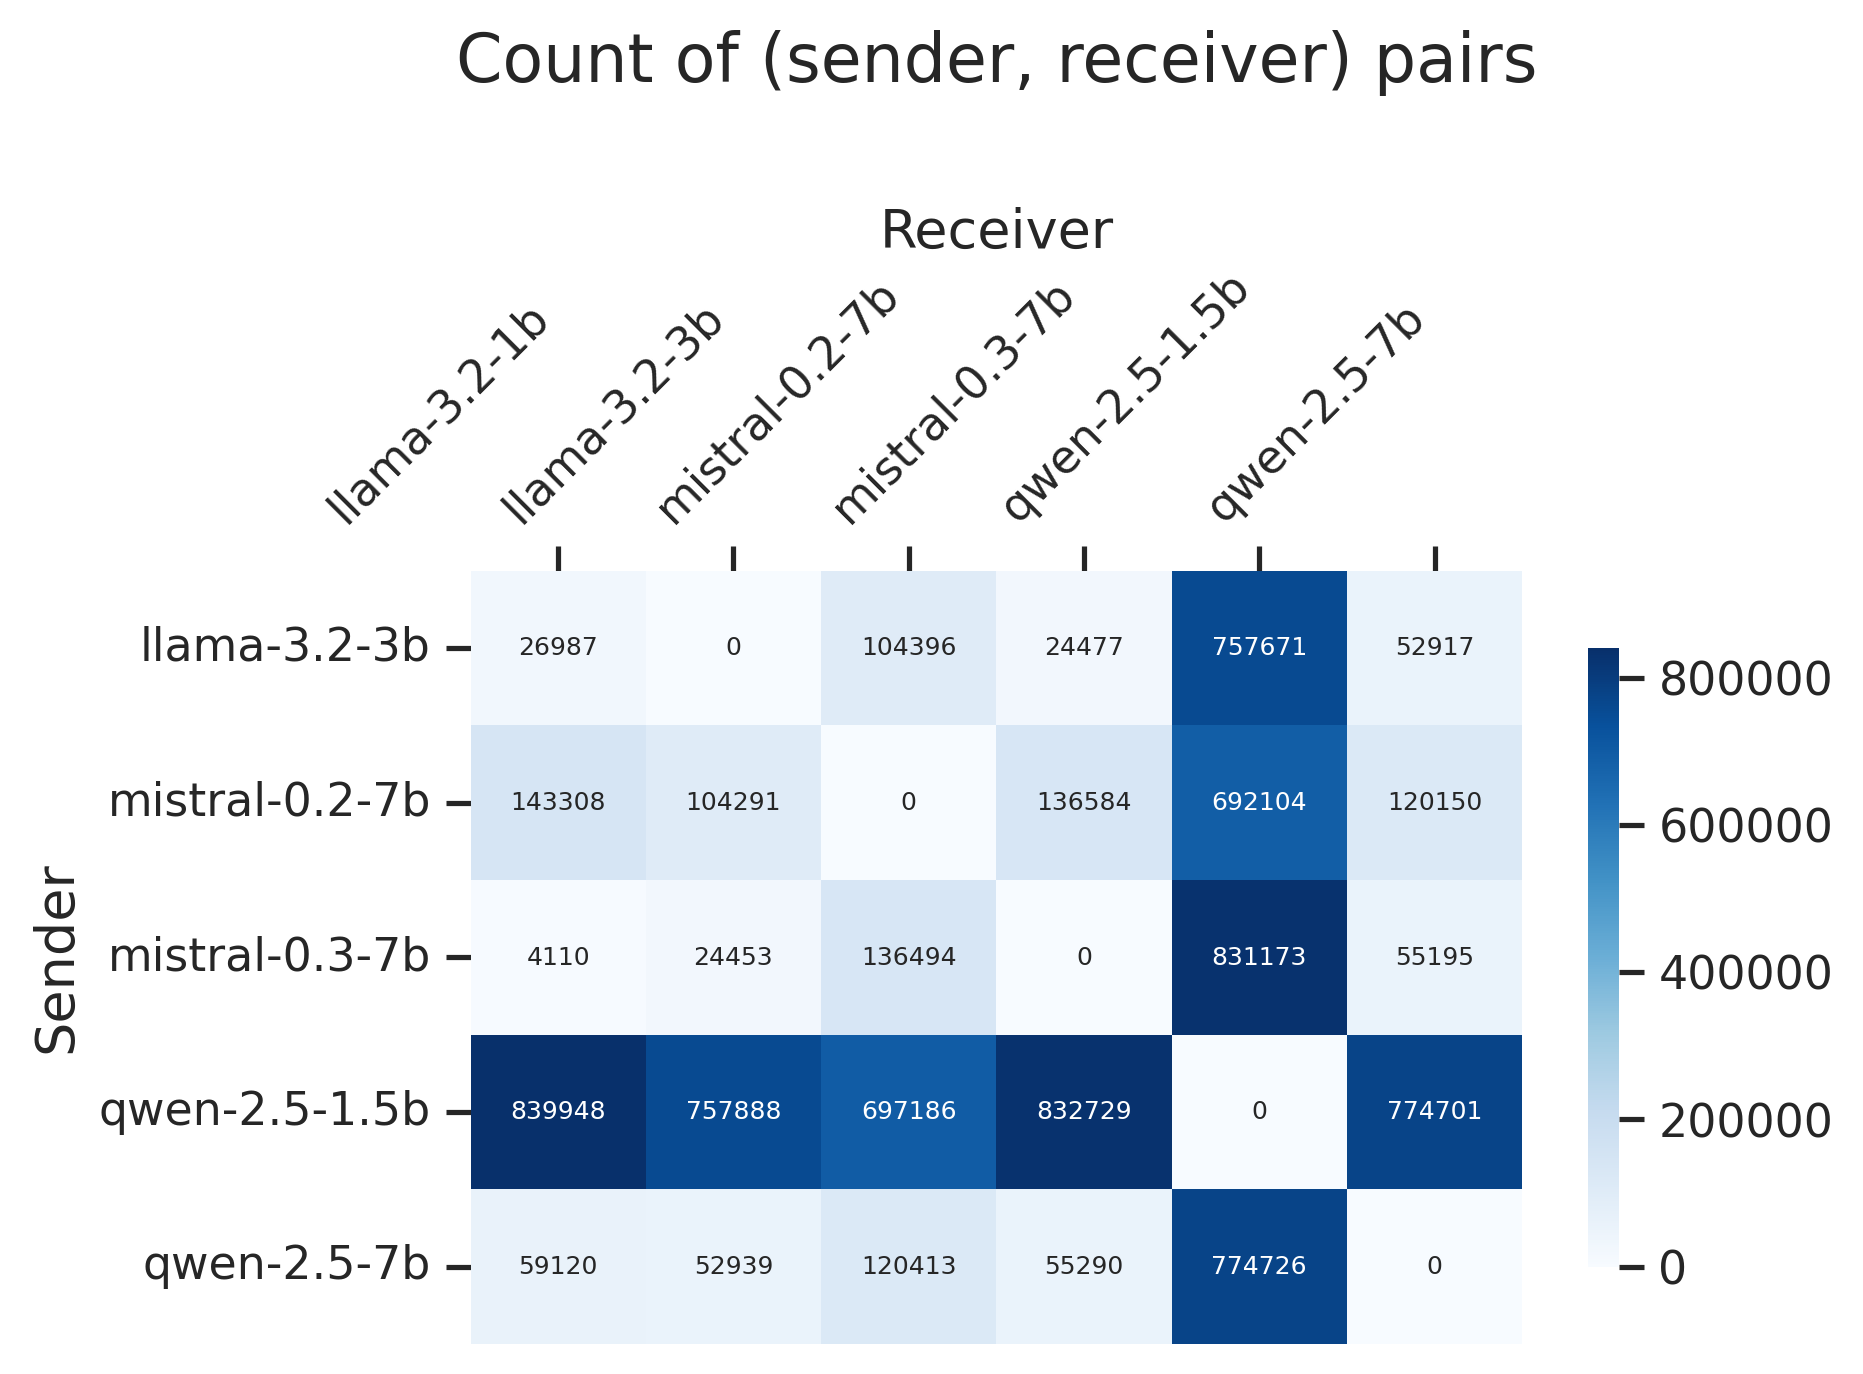
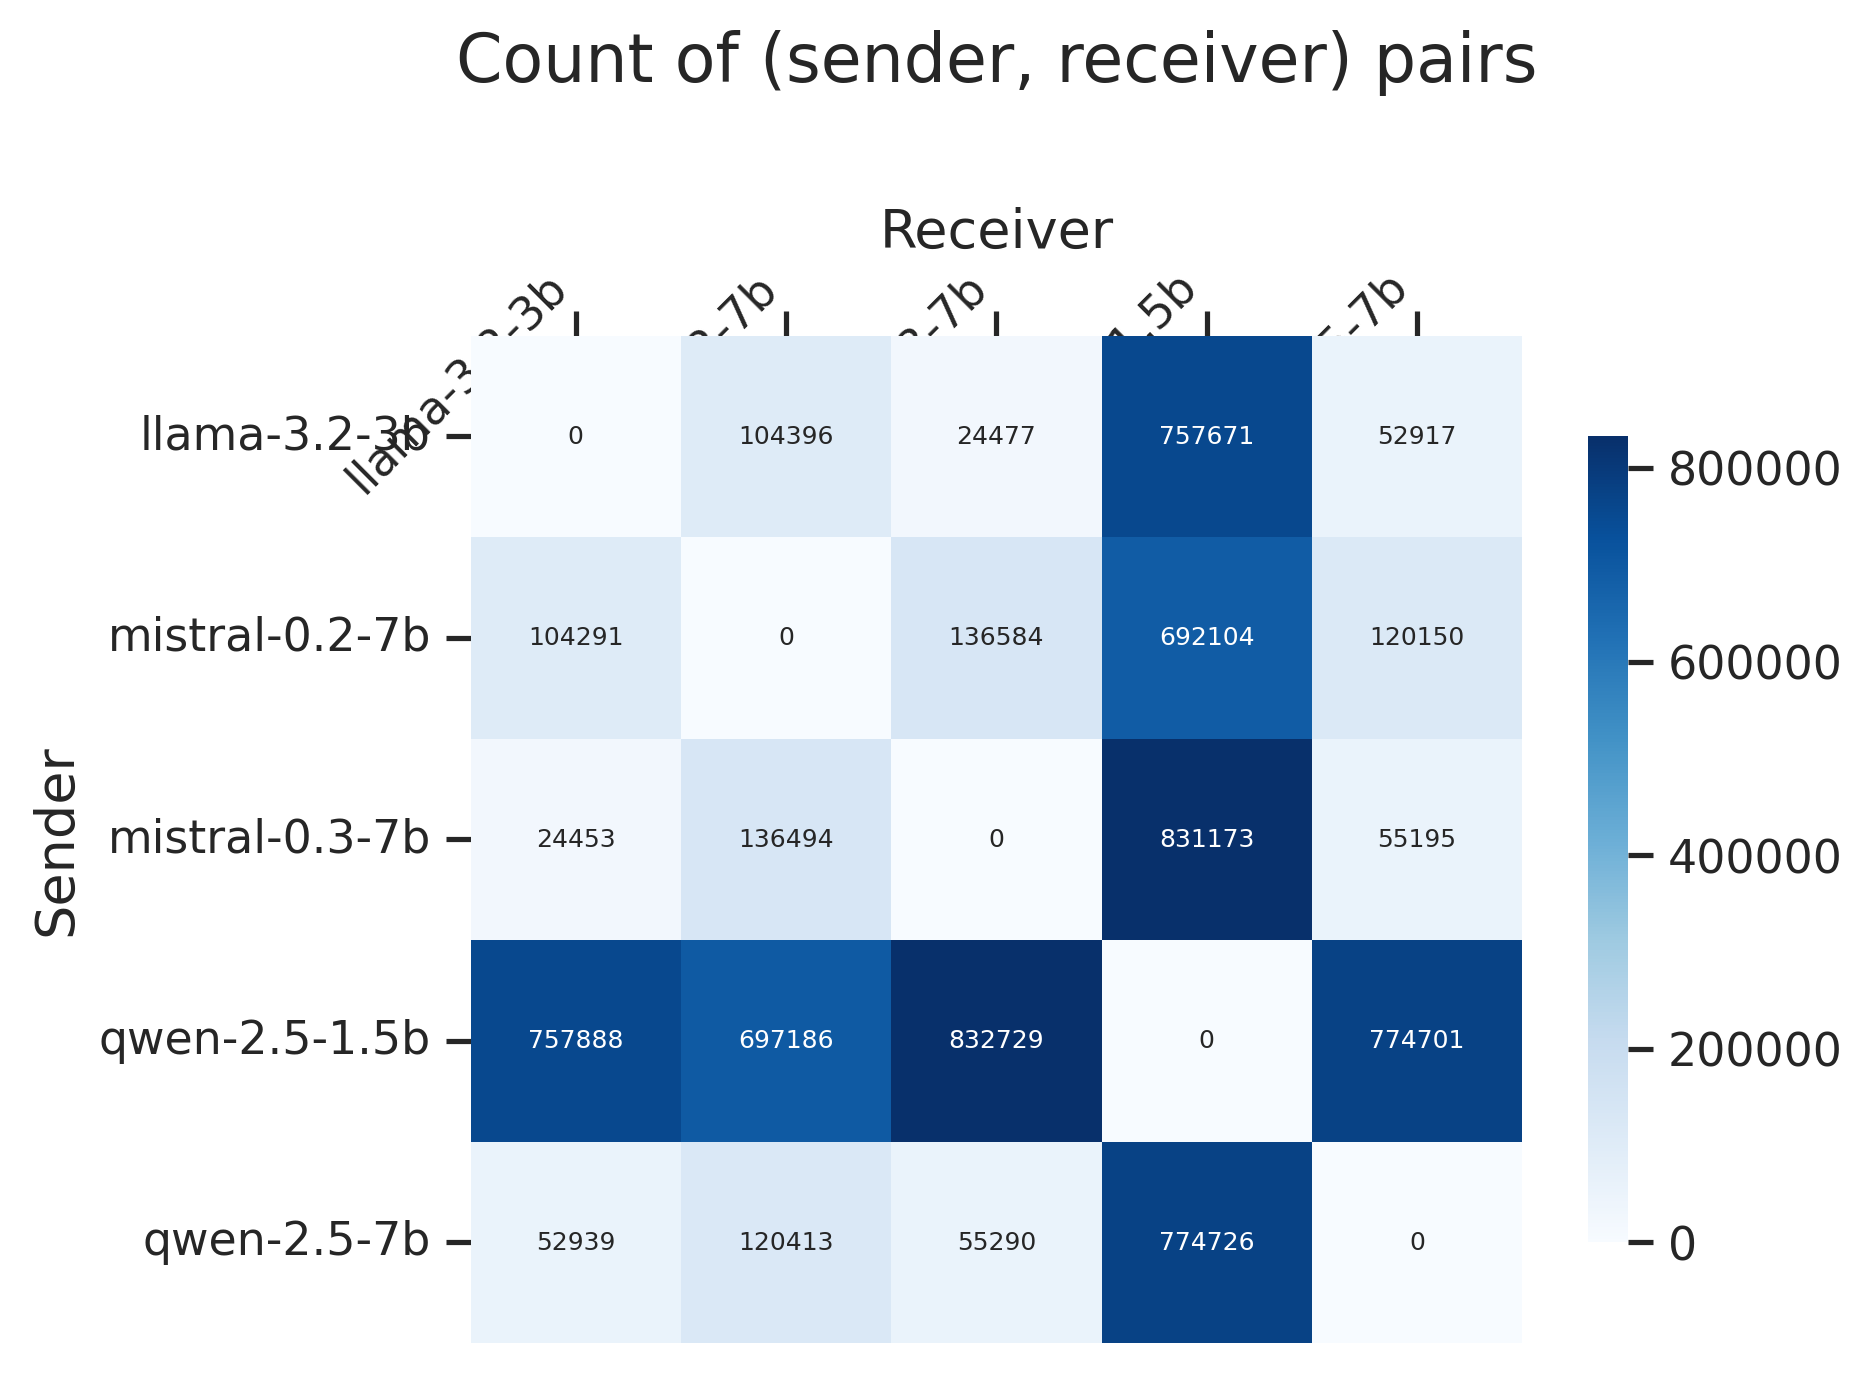
plots

diff --git a/src/analysis.py b/src/analysis.py
@@ -132,7 +132,7 @@ def plot_valid_json_distribution(df, perc=True):
 def plot_input_r2():
     profiles_root = yaml.safe_load(pathlib.Path('configs/models.yaml').read_text())
     profiles = profiles_root.get('profiles', {})
-    model_names = profiles.keys()
+    model_names = list(profiles.keys())
     model_names.remove('llama-3.2-1b')
 
     dfs = [] 
